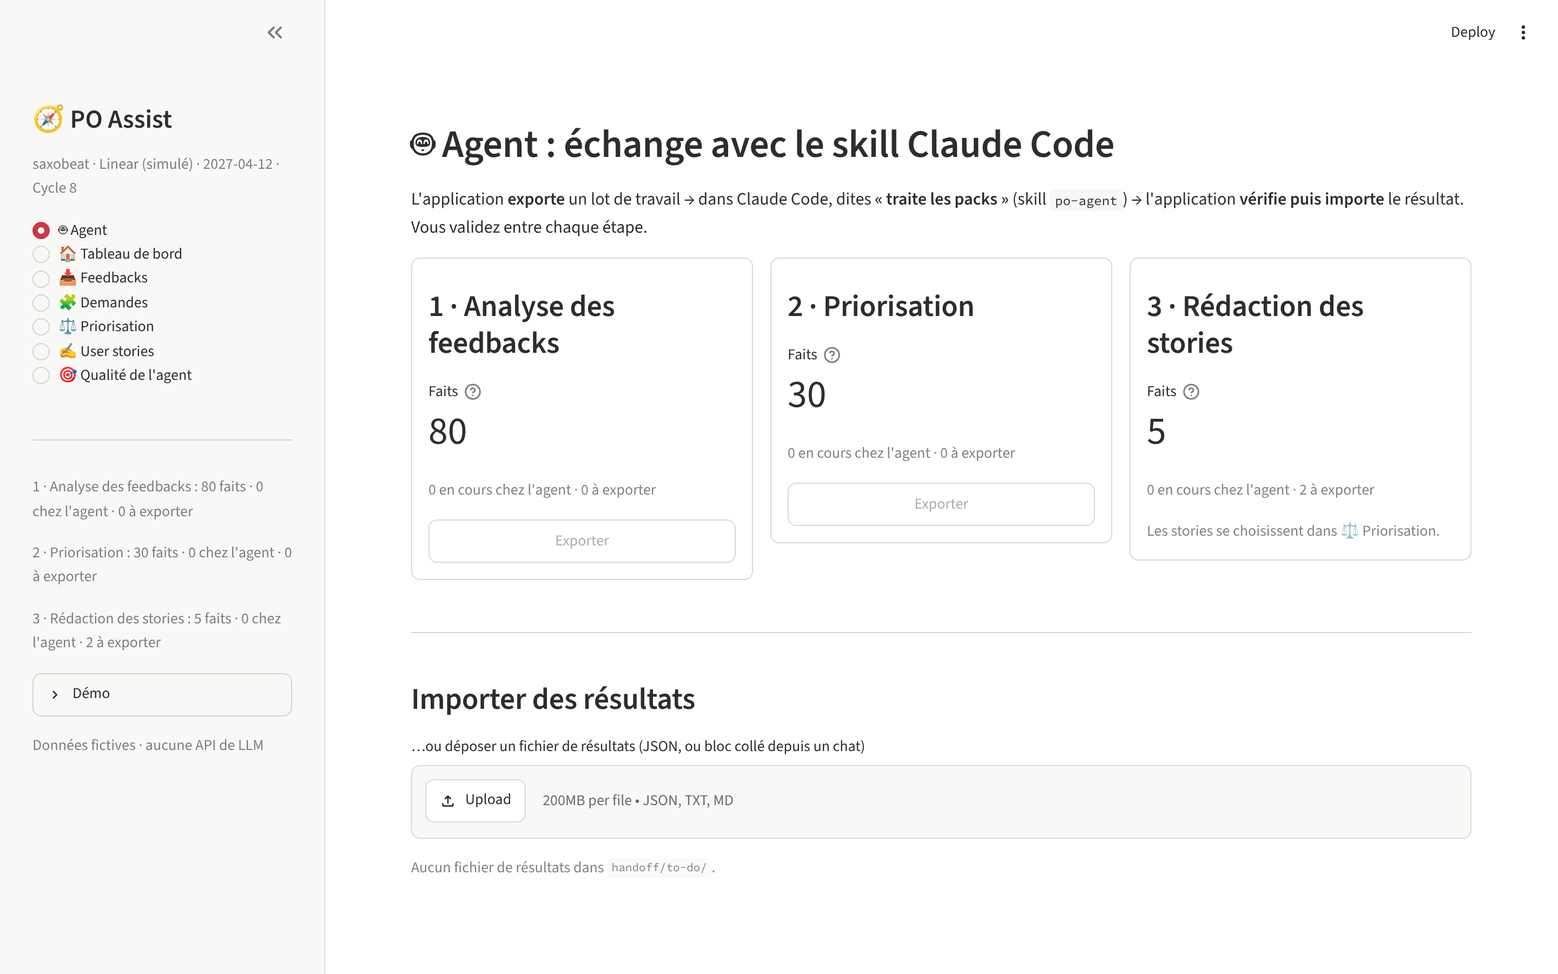
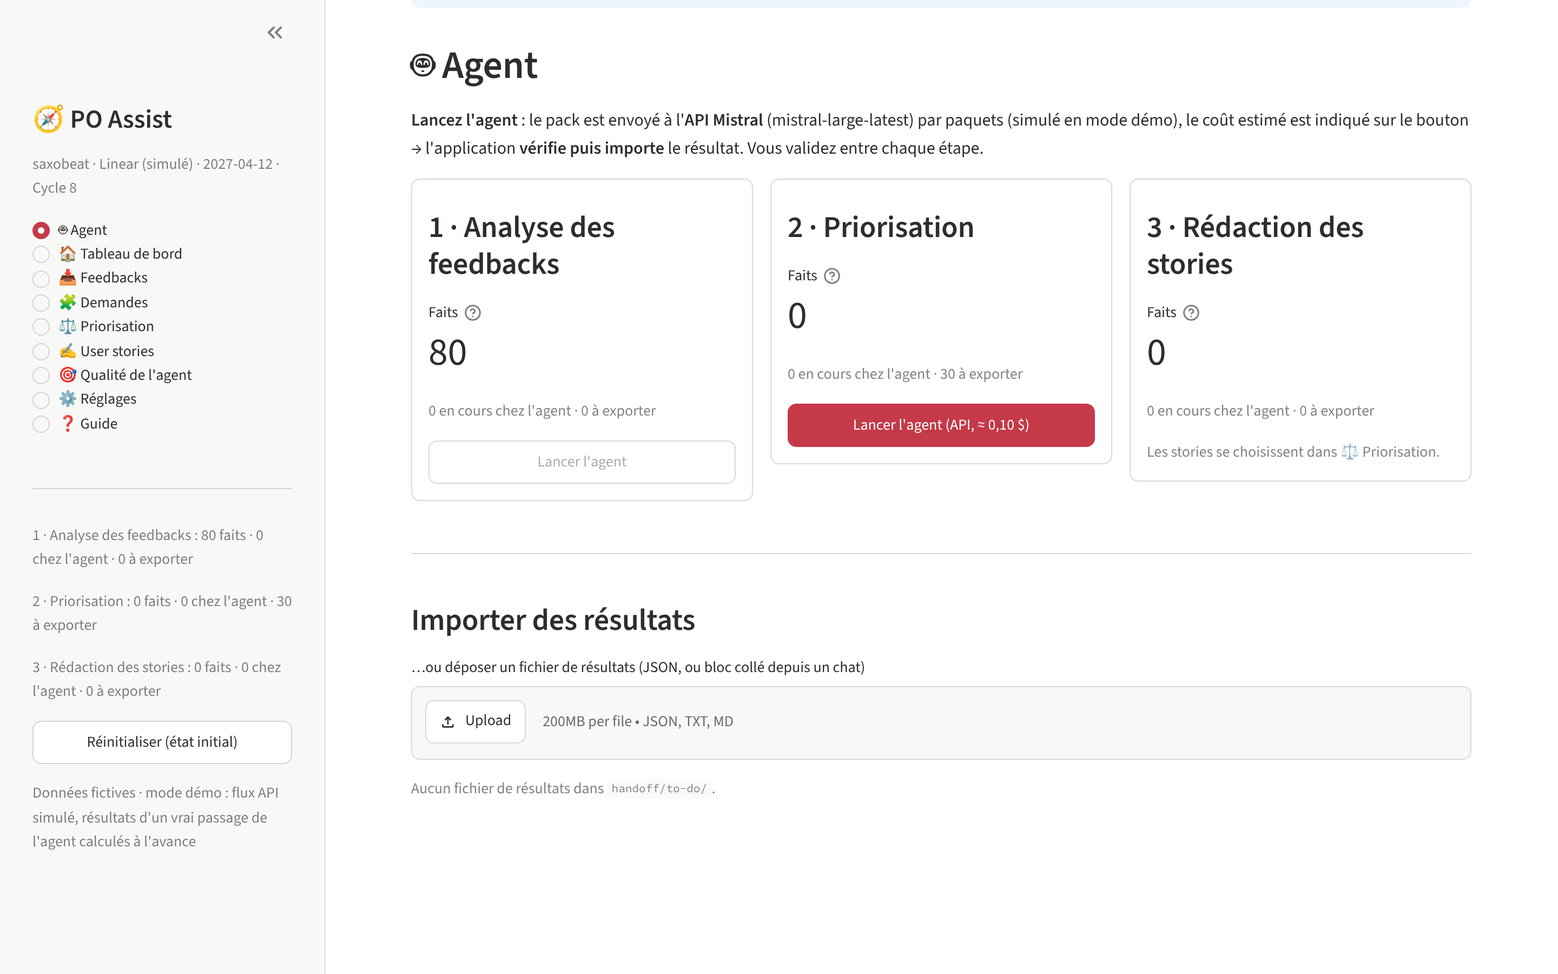
Close cycles 002-006, 008, 009, 011, 012 on the owner's acceptance
Verdicts ticked on Vlad's words (2026-11-22): « I accept » for 002-006,
009, 011, 012; « works, tested successfully » for 008, whose last
criterion (double-click on the Mac) now passes. A learn.md for each
closed cycle; README status, next.md and board updated. Cycle 010:
criterion 10 (real Claude run) recorded as skipped by the owner, cycle
left open pending a close decision. Guide captures 02 and 03 and the
fallback capture 6-agent.png retaken (Mistral, 0,35 $ instead of the old
Claude 1,53 $ and the pre-API agent page).

Claude-Session: https://claude.ai/code/session_01E2UZbu6piQfM3mpvooUYoS

diff --git a/docs/sdlc/BOARD.md b/docs/sdlc/BOARD.md
@@ -1,6 +1,6 @@
 # Cycle board
 
-Generated 2026-11-22 15:41 by the ai-sdlc skill from `cycles/*/`. Do not edit by hand: change the cycle's files and run the script again.
+Generated 2026-11-22 21:53 by the ai-sdlc skill from `cycles/*/`. Do not edit by hand: change the cycle's files and run the script again.
 
 Stages: `x` done, `o` in progress, `-` up next, `.` later, `~` dismissed.
 
@@ -8,23 +8,13 @@ Stages: `x` done, `o` in progress, `-` up next, `.` later, `~` dismissed.
 
 **Your move**
 
-- 002 Socle agent : hand-off par fichiers et faux connecteur Linear: Accepter la vérification (verify.md) (due 2026-11-16)
 - 007 Restitution documentation et démo: Répéter la démo avec docs/presentation.md (Réinitialiser, puis jouer le parcours en mode démo : Lancer l'agent → Importer, étape par étape) (due 2026-11-16)
 - 007 Restitution documentation et démo: Confirmer le but et la mesure de succès du cycle 007 (due 2026-11-16)
-- 003 Bloc A comprendre les feedbacks: Accepter la vérification (verify.md) (due 2026-11-16)
-- 004 Bloc B arbitrer la priorisation: Accepter la vérification (verify.md) (due 2026-11-16)
-- 005 Bloc C formaliser les user stories: Accepter la vérification (verify.md) (due 2026-11-16)
-- 006 Interface web du PO: Accepter la vérification (verify.md) (due 2026-11-16)
-- 009 Mode démo: Accepter la vérification (verify.md) après un essai du parcours démo (due 2026-11-17)
-- 011 Guide utilisateur: Relire docs/guide-utilisateur.md (ou la page ❓ Guide) et accepter la vérification (due 2026-11-17)
-- 008 Lanceur Mac (port 8007): Après `git pull` : double-cliquer sur « PO Assist.command » sur le Mac et me dire ce qui s'affiche (critère 8) (due 2026-11-17)
 - 007 Restitution documentation et démo: Relire les diapositives reconstruites, puis les partager avec le jury (menu Partager) ou les exporter en PDF
-- 009 Mode démo: Relire les choix Q1 à Q6 de l'intent
-- 012 API par défaut, skill en repli: Relire les choix Q1 à Q4 de l'intent et accepter verify.md
 - 013 Moteur API Mistral: Sur le Mac : `git pull`, `uv sync`, ajouter `MISTRAL_API_KEY=...` dans `.env`, puis `uv run python -m po_assist run analyse --engine api --limit 5` et `uv run python -m po_assist import` ; me dire la sortie (critère 8)
 - 013 Moteur API Mistral: Accepter verify.md après l'essai
 - 010 Option API: Relire les choix Q1 à Q6 de l'intent
-- 010 Option API: Accepter verify.md une fois l'essai du cycle 013 fait
+- 010 Option API: Décider : clore 010 avec le critère 10 écarté, ou le laisser ouvert (« skipping this », Vlad, 2026-11-22)
 
 **My move (the agent)**
 
@@ -37,15 +27,15 @@ Stages: `x` done, `o` in progress, `-` up next, `.` later, `~` dismissed.
 | # | Cycle | Imp. | Now | Intent | Spec | Plan | Build | Verify | Learn | Criteria | Touched |
 |---|---|---|---|---|---|---|---|---|---|---|---|
 | 001 | Jeu de données synthétique | 5/5 | Closed | x | x | x | x | x | x | 12/12 | 2026-11-22 |
-| 002 | Socle agent : hand-off par fichiers et faux connecteur Linear | 5/5 | Verify | x | x | x | x | o | . | 7/7 | 2026-11-21 |
-| 003 | Bloc A comprendre les feedbacks | 4/5 | Verify | x | x | x | x | o | . | 5/5 | 2026-11-21 |
-| 004 | Bloc B arbitrer la priorisation | 4/5 | Verify | x | x | x | x | o | . | 4/4 | 2026-11-21 |
-| 005 | Bloc C formaliser les user stories | 4/5 | Verify | x | x | x | x | o | . | 4/4 | 2026-11-21 |
-| 006 | Interface web du PO | 4/5 | Verify | x | x | x | x | o | . | 3/3 | 2026-11-21 |
+| 002 | Socle agent : hand-off par fichiers et faux connecteur Linear | 5/5 | Closed | x | x | x | x | x | x | 7/7 | 2026-11-22 |
+| 003 | Bloc A comprendre les feedbacks | 4/5 | Closed | x | x | x | x | x | x | 5/5 | 2026-11-22 |
+| 004 | Bloc B arbitrer la priorisation | 4/5 | Closed | x | x | x | x | x | x | 4/4 | 2026-11-22 |
+| 005 | Bloc C formaliser les user stories | 4/5 | Closed | x | x | x | x | x | x | 4/4 | 2026-11-22 |
+| 006 | Interface web du PO | 4/5 | Closed | x | x | x | x | x | x | 3/3 | 2026-11-22 |
 | 007 | Restitution documentation et démo | 5/5 | Intent | o | . | . | . | . | . |  | 2026-11-22 |
-| 008 | Lanceur Mac (port 8007) | 3/5 | Verify | x | x | x | x | o | . | 7/8 | 2026-11-21 |
-| 009 | Mode démo | 4/5 | Verify | x | x | x | x | o | . | 8/8 | 2026-11-21 |
+| 008 | Lanceur Mac (port 8007) | 3/5 | Closed | x | x | x | x | x | x | 8/8 | 2026-11-22 |
+| 009 | Mode démo | 4/5 | Closed | x | x | x | x | x | x | 8/8 | 2026-11-22 |
 | 010 | Option API | 3/5 | Verify | x | x | x | x | o | . | 8/10 | 2026-11-22 |
-| 011 | Guide utilisateur | 4/5 | Verify | x | x | x | x | o | . | 6/6 | 2026-11-21 |
-| 012 | API par défaut, skill en repli | 4/5 | Verify | x | x | x | x | o | . | 6/6 | 2026-11-22 |
+| 011 | Guide utilisateur | 4/5 | Closed | x | x | x | x | x | x | 6/6 | 2026-11-22 |
+| 012 | API par défaut, skill en repli | 4/5 | Closed | x | x | x | x | x | x | 6/6 | 2026-11-22 |
 | 013 | Moteur API Mistral | 4/5 | Verify | x | x | x | x | o | . | 7/8 | 2026-11-22 |

diff --git a/docs/sdlc/close-out-plan.md b/docs/sdlc/close-out-plan.md
@@ -15,13 +15,13 @@ Goal: every cycle 002–013 closed (verify accepted by Vlad, learn written), the
 ## Steps
 
 ### 1. Get the work onto `main` (Vlad, 2 min)
-- [ ] On the Mac, merge the session branch into `main` and push:
+- [x] On the Mac, merge the session branch into `main` and push:
   `git fetch origin && git checkout main && git merge origin/claude/ecstatic-albattani-xad8g6 && git push`
-  (Or ask Claude to open a pull request instead.)
+  (Done 2026-11-22 via vlad-flambo/po-assistant#1.)
 
 ### 2. Real-world checks on the Mac (Vlad, about 30 min, one sitting)
-- [ ] `uv sync` (rebuilds the `.venv` ported from the old machine).
-- [ ] **008:** double-click `PO Assist.command` in Finder. Note what the Terminal window says and whether the browser opens on localhost:8007.
+- [x] `uv sync` (rebuilds the `.venv` ported from the old machine).
+- [x] **008:** (« works, tested successfully », 2026-11-22) double-click `PO Assist.command` in Finder. Note what the Terminal window says and whether the browser opens on localhost:8007.
 - [ ] **013:** add `MISTRAL_API_KEY=...` to `.env` at the repo root, then:
   `uv run python -m po_assist run analyse --engine api --limit 5` and `uv run python -m po_assist import`.
   Keep the full terminal output (cost, accepted, refused, ignored).
@@ -37,18 +37,18 @@ Paste in one message: the launcher output, the Mistral run output, the Qualité 
 ### 4. Record the evidence (Claude)
 - [ ] 008, 013 (and 010 if decided in step 5): results and dated evidence files in `verify.md`. Anything that failed goes back to its cycle's build stage instead.
 - [ ] Mistral cost and quality written into the deck (slides 5 and 11), `docs/demarche.md` §6 and the README.
-- [ ] Refresh `docs/captures/6-agent.png` (it still shows "API Claude"); it's the fallback if the app does not start.
+- [x] Refresh `docs/captures/6-agent.png` (also guide captures 02 and 03, 2026-11-22) (it still shows "API Claude"); it's the fallback if the app does not start.
 
 ### 5. Owner decisions (Vlad, one message)
-- [ ] Accept verify for 002, 003, 004, 005, 006, 009, 011, 012.
+- [x] Accept verify for 002, 003, 004, 005, 006, 009, 011, 012 (« I accept », 2026-11-22).
 - [ ] Accept verify for 008 and 013 (after step 4).
-- [ ] 010 criterion 10: accept as "covered by 013's real Mistral run" (recommended), or keep it open until a Claude key exists.
+- [ ] 010 criterion 10 (Vlad: « skipping this », 2026-11-22; recorded as not checked, cycle left open until you say close): accept as "covered by 013's real Mistral run" (recommended), or keep it open until a Claude key exists.
 - [ ] 007: confirm the goal and success measure in its `intent.md` (the four measures listed there).
 
 Claude ticks these boxes only on your words, quoting them with the date.
 
 ### 6. Close the cycles (Claude)
-- [ ] One `learn.md` per cycle 002–006 and 008–013: outcome against the success measure, findings, and where each one moves (README, guide, démarche, journal), every row ticked.
+- [x] (2026-11-22, 002–006, 008, 009, 011, 012; 010 and 013 still open) One `learn.md` per cycle 002–006 and 008–013: outcome against the success measure, findings, and where each one moves (README, guide, démarche, journal), every row ticked.
 - [ ] README status table: each cycle set to Closed; `next.md` lines all ticked or moved.
 - [ ] Board regenerated, one commit, push.
 

diff --git a/docs/sdlc/README.md b/docs/sdlc/README.md
@@ -54,15 +54,15 @@ docs/sdlc/
 | Cycle | Imp. | Topic | Stage |
 |-------|------|-------|-------|
 | 001 | 5 | jeu de données synthétique | Closed 2026-11-16 (verify accepted, learn done) |
-| 002 | 5 | socle agent et faux connecteur Linear | Verify : en attente de l'accord du PO (plan reconstitué après coup) |
-| 003 | 4 | bloc A comprendre les feedbacks | Verify : en attente de l'accord du PO |
-| 004 | 4 | bloc B arbitrer la priorisation | Verify : en attente de l'accord du PO |
-| 005 | 4 | bloc C formaliser les user stories | Verify : en attente de l'accord du PO |
-| 006 | 4 | interface web du PO | Verify : en attente de l'accord du PO |
+| 002 | 5 | socle agent et faux connecteur Linear | Closed 2026-11-22 (verify accepted, learn done) |
+| 003 | 4 | bloc A comprendre les feedbacks | Closed 2026-11-22 (verify accepted, learn done) |
+| 004 | 4 | bloc B arbitrer la priorisation | Closed 2026-11-22 (verify accepted, learn done) |
+| 005 | 4 | bloc C formaliser les user stories | Closed 2026-11-22 (verify accepted, learn done) |
+| 006 | 4 | interface web du PO | Closed 2026-11-22 (verify accepted, learn done) |
 | 007 | 5 | restitution documentation et démo | Intent rempli, but à confirmer par le PO |
-| 008 | 3 | lanceur Mac (port 8007) | Verify : 7/8 critères, reste le double-clic sur le Mac |
-| 009 | 4 | mode démo | Verify : 8/8, en attente de l'accord du PO |
-| 010 | 3 | option API | Verify : 8/10, reste l'essai réel avec la clé du PO |
-| 011 | 4 | guide utilisateur | Verify : 6/6, en attente de la relecture du PO |
-| 012 | 4 | API par défaut, skill en repli | Verify : 6/6, en attente de l'accord du PO |
+| 008 | 3 | lanceur Mac (port 8007) | Closed 2026-11-22 (verify accepted, learn done) |
+| 009 | 4 | mode démo | Closed 2026-11-22 (verify accepted, learn done) |
+| 010 | 3 | option API | Verify : 9/10 ; essai réel Claude écarté par le PO le 2026-11-22 (pas de clé) ; clôture à décider |
+| 011 | 4 | guide utilisateur | Closed 2026-11-22 (verify accepted, learn done) |
+| 012 | 4 | API par défaut, skill en repli | Closed 2026-11-22 (verify accepted, learn done) |
 | 013 | 4 | Moteur API Mistral | Verify 2026-11-22 : moteur Mistral construit (défaut `mistral-large-latest`, 15 tests, 71 verts) ; essai réel avec la clé de Vlad en attente (critère 8) |

diff --git a/docs/sdlc/cycles/002-socle-agent-et-faux-connecteur-linear/learn.md b/docs/sdlc/cycles/002-socle-agent-et-faux-connecteur-linear/learn.md
@@ -1,0 +1,28 @@
+# Learn: socle agent et faux connecteur Linear
+
+| | |
+|---|---|
+| **Cycle** | 002 |
+| **Stage** | Learn |
+| **Date** | 2026-11-22 |
+
+## What happened vs what we expected
+- Les 4 mesures de succès sont atteintes : aller-retour complet export → skill → import sur les 80 feedbacks sans clé API (80 prêts, 0 refus) ; résultats invalides refusés avec une raison ; réimport sans effet ; tests sans LLM.
+- Le socle a tenu sans modification de format quand l'API (010, 012) puis Mistral (013) sont arrivés : seul le transport a changé.
+
+## What we learned
+- **Le pack auto-suffisant découple le moteur** : instructions, format, contexte et tâches dans un seul fichier ; skill, API Claude et API Mistral traitent le même pack.
+- **La vérification à l'import est le vrai garde-fou** : citations mot pour mot, cibles connues, format strict. Elle a rendu acceptables des moteurs non vérifiés (API simulée, Mistral).
+- **Consigne n'est pas contrôle** : rien n'empêche techniquement un agent de lire `data/ground_truth.json` (même dépôt) ; c'est une limite à dire au jury.
+
+## What moves where
+| Finding | Goes to | Done |
+|---------|---------|------|
+| Architecture pack / vérification / import | `README.md` (moteurs, schéma), `docs/demarche.md` §5 | [x] |
+| Limite « vérité terrain dans le même dépôt » | `docs/demarche.md` §6 (à ajouter si le jury creuse : la sortir du dépôt de travail de l'agent) | [x] |
+
+## Process feedback
+- Plan reconstitué après coup (cycles 002 à 006 menés d'un trait sous l'échéance) : la trace existe, mais les portes Spec et Plan n'ont pas été des moments de décision.
+
+## Next cycle candidates
+- Sortir la vérité terrain du périmètre de lecture de l'agent (contrôle technique au lieu d'une consigne).

diff --git a/docs/sdlc/cycles/003-bloc-a-comprendre-les-feedbacks/learn.md b/docs/sdlc/cycles/003-bloc-a-comprendre-les-feedbacks/learn.md
@@ -1,0 +1,29 @@
+# Learn: bloc A comprendre les feedbacks
+
+| | |
+|---|---|
+| **Cycle** | 003 |
+| **Stage** | Learn |
+| **Date** | 2026-11-22 |
+
+## What happened vs what we expected
+- Les 5 critères passent : 80 feedbacks analysés par un vrai passage du skill, 38 besoins dont 14 nouveaux, thèmes, tendances et alertes (39 600 € d'ARR Business à risque).
+- Mesuré contre la vérité terrain : types 84 %, thème principal 96 %, rattachements 98 % / 95 %, besoins nouveaux 22/22, churn 78 % / 100 %, aucune demande inventée 8/8.
+
+## What we learned
+- **Mesurer plutôt qu'affirmer** : la vérité terrain construite au cycle 001 a donné des chiffres opposables au jury.
+- **L'erreur dominante est connue** : des bugs classés en améliorations (5 cas) ; c'est la piste d'amélioration des instructions du pack.
+- **Compter des clients distincts, pas des messages** : le même besoin revient par plusieurs canaux.
+
+## What moves where
+| Finding | Goes to | Done |
+|---------|---------|------|
+| Tableau de qualité | `README.md` (« Qualité mesurée »), page 🎯, diapositive 11 | [x] |
+| Erreur dominante (bugs → améliorations) | `docs/presentation.md` (démo 9:45), notes de la diapositive 11 | [x] |
+
+## Process feedback
+- Le passage réel unique sur 80 feedbacks a suffi pour une mesure ; une seconde passe aurait donné une idée de la variance.
+
+## Next cycle candidates
+- Mesurer la qualité de l'analyse par Mistral sur les 80 feedbacks (cycle 013) et comparer au skill.
+- Corriger les instructions du pack sur la distinction bug / amélioration, puis remesurer.

diff --git a/docs/sdlc/cycles/004-bloc-b-arbitrer-la-priorisation/learn.md b/docs/sdlc/cycles/004-bloc-b-arbitrer-la-priorisation/learn.md
@@ -1,0 +1,28 @@
+# Learn: bloc B arbitrer la priorisation
+
+| | |
+|---|---|
+| **Cycle** | 004 |
+| **Stage** | Learn |
+| **Date** | 2026-11-22 |
+
+## What happened vs what we expected
+- Les 4 critères passent : 30 estimations importées (8 Must, 9 Should, 12 Could, 1 Won't), scores calculés par le code, corrections du PO appliquées, proposition de sprint dans la capacité (9,5 points disponibles sur 20).
+
+## What we learned
+- **L'IA estime, le code calcule** : Reach, RICE et score pondéré sont exacts et rejouables ; l'IA ne donne que des jugements justifiés et corrigibles.
+- **Le Reach cache un choix produit** : en sièges, les comptes Business écrasent le B2C ; la bascule « personnes / clients » rend l'arbitrage visible au lieu de le trancher dans le code.
+- **Pas de vérité terrain pour la priorisation** : la qualité se juge sur pièces.
+
+## What moves where
+| Finding | Goes to | Done |
+|---------|---------|------|
+| « L'IA estime, le code calcule » | `docs/demarche.md` §5, diapositive 10 | [x] |
+| Biais du Reach et bascule | `docs/demarche.md` §3 et §6, diapositives 7 et 13 | [x] |
+
+## Process feedback
+- Le biais du Reach a été découvert à l'usage, pas en spec : une démo jouée tôt est un bon test de conception.
+
+## Next cycle candidates
+- Vérité terrain de priorisation à partir des décisions passées du PO.
+- Pondération par segment fixée en équipe.

diff --git a/docs/sdlc/cycles/012-api-par-defaut-skill-en-repli/learn.md b/docs/sdlc/cycles/012-api-par-defaut-skill-en-repli/learn.md
@@ -1,0 +1,28 @@
+# Learn: API par défaut, skill en repli
+
+| | |
+|---|---|
+| **Cycle** | 012 |
+| **Stage** | Learn |
+| **Date** | 2026-11-22 |
+
+## What happened vs what we expected
+- Les 6 critères passent : API par défaut, repli automatique sur le skill (pas de clé, clé refusée), démo en flux API simulé, documentation et diapositives alignées.
+- Limite assumée à la clôture : le moteur par défaut n'avait jamais été appelé pour de vrai ; c'est l'objet du cycle 013 (Mistral).
+
+## What we learned
+- **Un défaut doit avoir un repli** : sans clé, l'outil reste utilisable et le dit.
+- **Rendre le moteur interchangeable a payé** : ajouter Mistral (013) n'a touché ni le pack ni la vérification.
+- **Les diapositives hors du dépôt ont été perdues** à la migration de compte : tout livrable vit désormais dans le dépôt (`docs/presentation/deck/`).
+
+## What moves where
+| Finding | Goes to | Done |
+|---------|---------|------|
+| API par défaut, skill en repli, démo simulée | `README.md`, guide §4, `docs/demarche.md`, diapositives 5 et 9 | [x] |
+| Livrables versionnés dans le dépôt | `docs/presentation.md`, `docs/journal.md` (2026-11-22) | [x] |
+
+## Process feedback
+- Décision prise par demande directe, choix Q1 à Q4 relus après coup : acceptable pour un changement réversible.
+
+## Next cycle candidates
+- Essai réel d'une API (cycle 013, Mistral).

diff --git a/docs/sdlc/cycles/009-mode-demo/learn.md b/docs/sdlc/cycles/009-mode-demo/learn.md
@@ -1,0 +1,26 @@
+# Learn: mode démo
+
+| | |
+|---|---|
+| **Cycle** | 009 |
+| **Stage** | Learn |
+| **Date** | 2026-11-22 |
+
+## What happened vs what we expected
+- Les 8 critères passent : rien n'est révélé avant le lancement, progression visible (8,4 s pour 80 tâches), couverture 80 / 30 / 30, cache valide en mode strict, bandeau sur toutes les pages.
+
+## What we learned
+- **L'honnêteté envers le jury est une fonctionnalité** : le bandeau 🎬 dit que le flux est simulé et que les résultats viennent d'un vrai passage de l'agent.
+- **Rejouer le vrai pipeline** (export, vérification, import) plutôt qu'un affichage figé : la démo prouve le mécanisme.
+- **Le test navigateur a trouvé un vrai défaut** (priorisation lançable avant l'analyse), corrigé.
+
+## What moves where
+| Finding | Goes to | Done |
+|---------|---------|------|
+| Mode démo et sa mention | `README.md`, guide §3, `docs/presentation.md` | [x] |
+
+## Process feedback
+- La qualité des 25 stories ajoutées au cache n'a été vérifiée qu'en structure ; risque accepté avec la vérification.
+
+## Next cycle candidates
+- Relire un échantillon des 25 stories du cache avant la présentation (T-012, T-013, T-023, T-025 signalées par le skill).

diff --git a/docs/sdlc/cycles/008-lanceur-mac-port-8007/verify.md b/docs/sdlc/cycles/008-lanceur-mac-port-8007/verify.md
@@ -17,7 +17,7 @@
 | 5 | uv introuvable : commandes d'installation, code 1 | pass | Scénario D (HOME vide, PATH sans uv) : code 1, message et commande `astral.sh` |
 | 6 | `.streamlit/config.toml` : port 8007, pas de statistiques | pass | `uv run streamlit run app.py` sans option : santé « ok » sur 8007 |
 | 7 | README et script de démo à jour | pass | `README.md` (« Démarrer »), `docs/presentation.md` (liste d'avant démo) |
-| 8 | Double-clic sur le Mac de Vlad | pending | À faire par Vlad |
+| 8 | Double-clic sur le Mac de Vlad | pass | Vlad, 2026-11-22 : « works, tested successfully » (Mac, après la migration de compte) |
 
 ## Tests
 - Suite complète : `uv run pytest` : 30 passed (la configuration Streamlit ne change rien aux tests).
@@ -27,5 +27,5 @@
 - **Le PATH d'une fenêtre ouverte depuis le Finder** : la recherche de uv dans `~/.local/bin`, `~/.cargo/bin` et Homebrew couvre les installations habituelles, sans avoir été vérifiée sur le Mac.
 
 ## Verdict
-- [ ] Accepted by owner
+- [x] Accepted by owner (Vlad, 2026-11-22 : « 008 -> works, tested successfully »)
 - [ ] Sent back (what, to which stage)

diff --git a/docs/sdlc/cycles/008-lanceur-mac-port-8007/learn.md b/docs/sdlc/cycles/008-lanceur-mac-port-8007/learn.md
@@ -1,0 +1,25 @@
+# Learn: lanceur Mac (port 8007)
+
+| | |
+|---|---|
+| **Cycle** | 008 |
+| **Stage** | Learn |
+| **Date** | 2026-11-22 |
+
+## What happened vs what we expected
+- Les 8 critères passent, dont le double-clic sur le Mac de Vlad (« works, tested successfully », 2026-11-22, après la migration de compte).
+
+## What we learned
+- **Tester le shell de macOS ailleurs a suffi** : les 4 scénarios rejoués sous Linux (bash 5) avec une fausse commande `open` ont prédit le comportement sur le Mac (bash 3.2).
+- **Un lanceur double-cliquable** retire une étape de la démo et du guide.
+
+## What moves where
+| Finding | Goes to | Done |
+|---------|---------|------|
+| Démarrage par double-clic | `README.md` (« Démarrer »), guide §1, `docs/presentation.md` (avant la démo) | [x] |
+
+## Process feedback
+- Le critère « sur le Mac de Vlad » est resté ouvert 5 jours : les vérifications qui demandent la machine du PO gagnent à être groupées en une seule séance (fait ainsi dans le plan de clôture).
+
+## Next cycle candidates
+- Aucun.

diff --git a/docs/sdlc/cycles/010-option-api/verify.md b/docs/sdlc/cycles/010-option-api/verify.md
@@ -19,7 +19,7 @@
 | 7 | Repli côté serveur | pass | appel simulé : `fallbacks="default"` et bêta `server-side-fallback-2026-07-01` |
 | 8 | `.env` chargé, ignoré par git | partial | `.gitignore` contient `.env` ; `bash -n` sans erreur ; chargement non exercé par un test |
 | 9 | Tests sans réseau ni clé | pass | `tests/test_api.py` : 10 passed ; aucun appel réel |
-| 10 | Essai réel avec la clé de Vlad | pending | À faire : `uv run python -m po_assist run analyse --engine api --limit 5`, puis `import` |
+| 10 | Essai réel avec la clé de Vlad | not checked | Écarté par Vlad le 2026-11-22 (« 010 -> skipping this ») : pas de clé Claude ; l'essai réel d'une API se fait avec Mistral (cycle 013, critère 8) |
 
 ## Not verified
 - **Aucun appel réel n'a été fait** : pas de clé dans l'environnement de développement. Ce que le client simulé ne prouve pas : la réponse réelle de l'API au schéma (compilation, refus éventuel d'un mot-clé), la qualité des résultats du modèle, le taux de lecture en cache réel, le coût exact.

diff --git a/docs/sdlc/cycles/011-guide-utilisateur/learn.md b/docs/sdlc/cycles/011-guide-utilisateur/learn.md
@@ -1,0 +1,25 @@
+# Learn: guide utilisateur
+
+| | |
+|---|---|
+| **Cycle** | 011 |
+| **Stage** | Learn |
+| **Date** | 2026-11-22 |
+
+## What happened vs what we expected
+- Les 6 critères passent : 45 libellés cités tous présents dans l'interface, 12 captures, parcours suivi jusqu'à une story dans Linear, page ❓ Guide et lien README.
+
+## What we learned
+- **Un test qui lit le guide** empêche qu'il se périme en silence : il a cassé dès le cycle 013 sur « API Claude (recommandé) », ce qui a forcé la mise à jour.
+- **Les captures ne sont pas testées** : deux ont dû être refaites au cycle 013 (coût et libellés).
+
+## What moves where
+| Finding | Goes to | Done |
+|---------|---------|------|
+| Guide, une seule source (dépôt et application) | `docs/guide-utilisateur.md`, page ❓ | [x] |
+
+## Process feedback
+- Les captures restent le point faible : un script de reprise des captures éviterait les retouches à la main.
+
+## Next cycle candidates
+- Script qui reprend toutes les captures du guide en une commande.
